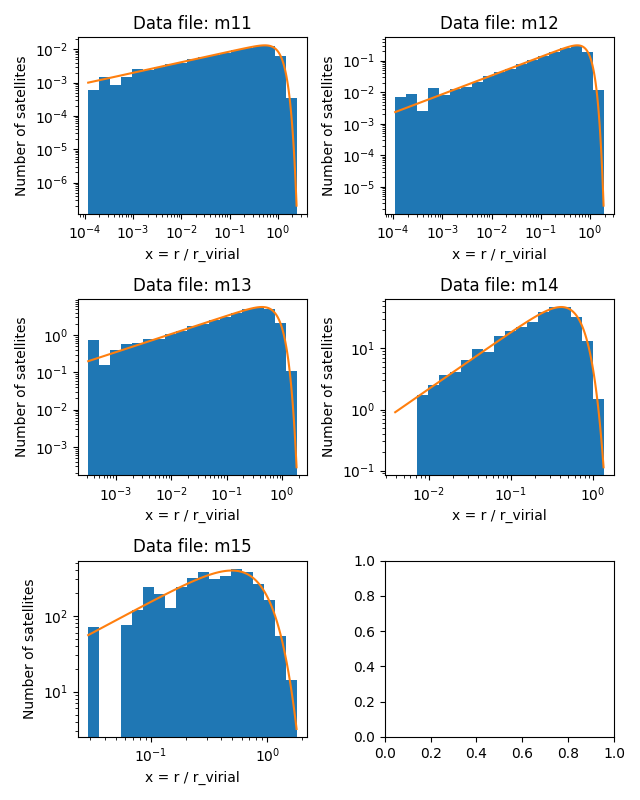
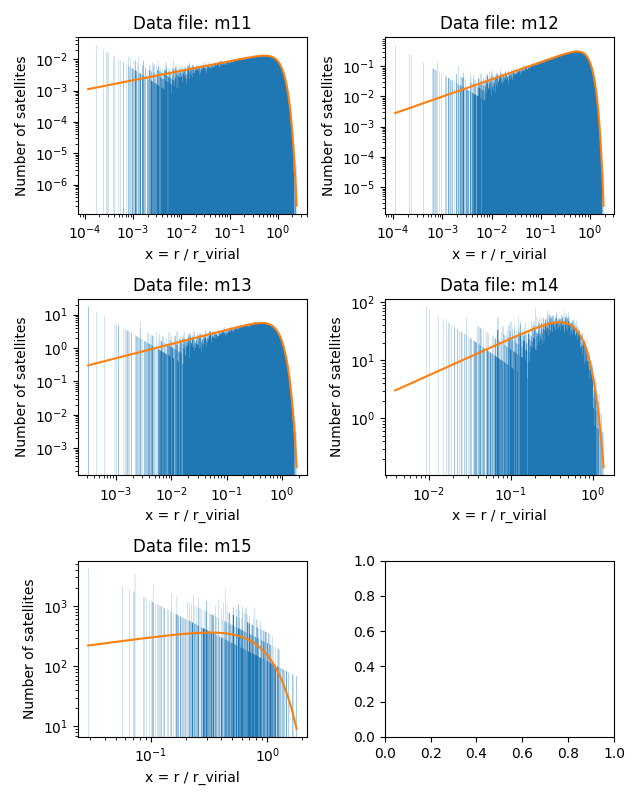
implemented all of the code now need to replace library function with own functions

diff --git a/Q1_SatelliteGalaxies.py b/Q1_SatelliteGalaxies.py
@@ -4,6 +4,7 @@ import matplotlib.pyplot as plt
 from scipy.optimize import minimize
 from scipy.integrate import quad
 
+NBINS = 1000
 
 def readfile(filename):
     """
@@ -373,6 +374,90 @@ def Q_score(G_score, dof):
     from scipy.special import gammainc
     return 1 - gammainc(dof/2, G_score/2)
 
+def rng(N: int) -> np.ndarray:
+    """
+    Random number generator 
+
+    Parameters
+    ----------
+    N: int
+        Number of random numbers
+
+    Returns
+    -------
+    np.ndarray
+        Array containing N random numbers
+        if N=1 returns float instead
+    """
+    global seed
+    seed = np.uint64(seed)
+
+    # Parameters for rng
+    a = np.uint64(4294957665)
+    a_1 = np.uint64(21)
+    a_2 = np.uint64(35)
+    a_3 = np.uint64(4)
+
+    rnds = np.zeros(N)
+    for i in range(N):
+
+        # MWC 32-bit
+        seed &= np.uint64(2**32 - 1)
+        seed = a*(seed & np.uint64(2**32 - 1)) + (seed >> np.uint64(32))
+        seed &= np.uint64(2**32 - 1)
+
+        # 64-bit XOR-shift
+        seed ^= (seed>>a_1)
+        seed ^= (seed<<a_2)
+        seed ^= (seed>>a_3)
+
+        # Calculating the float
+        u = seed / np.float64(2**64)
+        rnds[i] = u
+    
+    if N==1:
+        return rnds[0]
+    return rnds
+
+
+def sampler(
+    dist: callable,
+    min: float,
+    max: float,
+    Nsamples: int,
+    args: tuple = (),
+) -> np.ndarray:
+    """
+    Sample a distribution using rejection sampling
+
+    Parameters
+    dist : callable
+        Distribution to sample
+    min :
+        Minimum value for sampling
+    max : float
+        Maximum value for sampling
+    Nsamples : int
+        Number of samples
+    args : tuple, optional
+        Arguments of the distribution to sample, passed as args to dist
+
+    Returns
+    -------
+    sample: ndarray
+        Values sampled from dist, shape (Nsamples,)
+    """
+    xx = np.linspace(min, max, 10000)
+    pdf = dist(xx, *args)
+    cdf = np.array([np.sum(pdf[:i+1]) for i in range(len(pdf))])
+    cdf /= np.max(cdf)
+    # plt.figure(figsize=(6.4, 4.8))
+    # plt.plot(xx, cdf)
+    # plt.xscale('log')
+    # plt.savefig("Plots/test2.png")
+    random_y_values = rng(Nsamples)
+    random_x_values = np.interp(random_y_values, cdf, xx)
+    return random_x_values
 
 # =====================================================
 # ======== Main functions for each subquestion ========
@@ -380,6 +465,7 @@ def Q_score(G_score, dof):
 
 
 def do_question_1a():
+    print('1a')
     return
     # ======== Question 1a: Maximization of N(x) ========
     a = 2.4
@@ -390,6 +476,7 @@ def do_question_1a():
     x_lower, x_upper = 10**-4, 5
 
     x_max, Nx_max = my_minimizer(lambda x: -4*np.pi*x**2*n(x, A=A_1a, Nsat=Nsat, a=a, b=b, c=c), (x_lower, x_upper))
+    Nx_max *= -1
 
     # Write the results to text files for later use in the PDF
     with open("Calculations/satellite_max_x.txt", "w") as f:
@@ -399,6 +486,7 @@ def do_question_1a():
 
 
 def do_question_1b():
+    print('1b')
     # return
     # ======== Question 1b: Fitting N(x) with chi-squared ========
     datafiles = ["m11", "m12", "m13", "m14", "m15"]
@@ -419,7 +507,7 @@ def do_question_1b():
             min(radius),
             max(radius),
         )
-        bins = np.logspace(np.log10(x_lower), np.log10(x_upper), 20)  # choose appropriate bins
+        bins = np.logspace(np.log10(x_lower), np.log10(x_upper), NBINS)  # choose appropriate bins
         hist = np.histogram(radius, bins=bins)[0]
         N_i = hist / nhalo
 
@@ -435,12 +523,10 @@ def do_question_1b():
 
         # Plot the data and the best-fit model for each data file in a subplot.
         axs[datafiles.index(datafile)].stairs(
-        N_i/(bins[1:] - bins[:-1]), edges=bins, fill=True, label="Satellite galaxies"
+        N_i/(bins[1:] - bins[:-1]), edges=bins, fill=True
         )
 
-        x_plot = np.linspace(
-            x_lower, x_upper, 100
-        )  # create x_array for plotting the model
+        x_plot = np.linspace(x_lower, x_upper, 100)
         axs[datafiles.index(datafile)].plot(
             x_plot, 4*np.pi*x_plot**2*n(x_plot, A, nsat, *best_params)
         )  # plot the best-fit model using the best-fit parameters found from chi-squared minimization
@@ -470,6 +556,7 @@ def do_question_1b():
 
 
 def do_question_1c():
+    print('1c')
     # return 
     # ======== Question 1c: Fitting N(x) with Poisson ln-likelihood ========
     datafiles = ["m11", "m12", "m13", "m14", "m15"]
@@ -489,7 +576,7 @@ def do_question_1c():
             min(radius),
             max(radius),
         )
-        bins = np.logspace(np.log10(x_lower), np.log10(x_upper), 20)  # choose appropriate bins
+        bins = np.logspace(np.log10(x_lower), np.log10(x_upper), NBINS)  # choose appropriate bins
         hist = np.histogram(radius, bins=bins)[0]
         N_i = hist / nhalo
         best_params, min_poisson_llh = minimize_poisson_ln_likelihood(lambda a, b, c: model(a, b, c, bin_edges=bins, Nsat=nsat, x_lower=x_lower, x_upper=x_upper),
@@ -507,9 +594,7 @@ def do_question_1c():
         axs[datafiles.index(datafile)].stairs(
         N_i/(bins[1:] - bins[:-1]), edges=bins, fill=True, label="Satellite galaxies"
         )
-        x_plot = np.linspace(
-            x_lower, x_upper, 100
-        )  # create x_array for plotting the model
+        x_plot = np.linspace(x_lower, x_upper, 100)
         axs[datafiles.index(datafile)].plot(
             x_plot, 4*np.pi*x_plot**2*n(x_plot, A, nsat, *best_params)
         )  # plot the best-fit model using the best-fit parameters found from Poisson negative log-likelihood minimization
@@ -539,8 +624,9 @@ def do_question_1c():
 
 
 def do_question_1d():
-    global best_params_chi2  # replace by the correct array
-    global best_params_poisson # replace by the correct array
+    print('1d')
+    global best_params_chi2
+    global best_params_poisson
     # ======== Question 1d: Statistical tests ========
     datafiles = ["m11", "m12", "m13", "m14", "m15"]
 
@@ -557,7 +643,7 @@ def do_question_1d():
             min(radius),
             max(radius),
         )
-        bins = np.logspace(np.log10(x_lower), np.log10(x_upper), 20)  # choose appropriate bins
+        bins = np.logspace(np.log10(x_lower), np.log10(x_upper), NBINS)  # choose appropriate bins
         hist = np.histogram(radius, bins=bins)[0]
 
         # Use best-fit parameters from previous steps
@@ -595,6 +681,13 @@ def do_question_1d():
 
 
 def do_question_1e():
+    print('1e')
+    # Set seed
+    global seed
+    seed = 31415926535
+
+    global best_params_chi2
+    global best_params_poisson
     # ======== Question 1e: Monte Carlo simulations ========
     # pick one of the data files to perform the Monte Carlo simulations on, e.g. m12
     datafiles = ["m11", "m12", "m13", "m14", "m15"]
@@ -603,47 +696,84 @@ def do_question_1e():
     )
 
     radius, nhalo = readfile(f"Data/satgals_{datafiles[index]}.txt")
+    nsat = len(radius) / nhalo
+    x_lower, x_upper = (
+        min(radius),
+        max(radius),
+    )
+    bins = np.logspace(np.log10(x_lower), np.log10(x_upper), NBINS)  # choose appropriate bins
+    hist = np.histogram(radius, bins=bins)[0]
+    N_i = hist / nhalo
 
     # Use best-fit parameters from previous steps for the original data file
-    best_params_chi2 = (0.0, 0.0, 0.0)  # replace by the correct array
-    best_params_poisson = (0.0, 0.0, 0.0)  # replace by the correct array
+    best_param_chi2 = best_params_chi2[index]  # replace by the correct array
+    best_param_poisson = best_params_poisson[index]  # replace by the correct array
+
+    p_of_x_chi2 = (
+        lambda x: 4*np.pi*x**2*n(x, 1, 1, *best_param_chi2))
+    p_of_x_poisson = (
+        lambda x: 4*np.pi*x**2*n(x, 1, 1, *best_param_poisson))
+
+    # Normalize probability density for rejection sampling
+    _, Nx_max_chi2 = my_minimizer(lambda x: -1 * p_of_x_chi2(x), (x_lower, x_upper))
+    _, Nx_max_poisson = my_minimizer(lambda x: -1 * p_of_x_poisson(x), (x_lower, x_upper))
+    p_of_x_chi2_norm = lambda x: -1 * p_of_x_chi2(x) / Nx_max_chi2
+    p_of_x_poisson_norm = lambda x: -1 * p_of_x_poisson(x) / Nx_max_poisson
 
     pseudo_chi2_params = []
     pseudo_poisson_params = []
 
     num_pseudo_experiments = 10  # replace by number with reasonable runtime
     for i in range(num_pseudo_experiments):
+        random_samples_chi2 = sampler(p_of_x_chi2_norm, min=x_lower, max=x_upper, Nsamples=nhalo, args=())
+        random_samples_poisson = sampler(p_of_x_poisson_norm, min=x_lower, max=x_upper, Nsamples=nhalo, args=())
+        N_i_chi2 = np.histogram(random_samples_chi2, bins=bins)[0] / nhalo
+        # print(N_i_chi2)
+        # plt.figure(figsize=(6.4, 4.8))
+        # plt.stairs(N_i/(bins[1:] - bins[:-1]), edges=bins, fill=True, alpha=0.5)
+        # plt.stairs(N_i_chi2/(bins[1:] - bins[:-1]), edges=bins, fill=True, alpha=.5)
+        # plt.xscale('log')
+        # plt.yscale('log')
+        # plt.savefig("Plots/test.png")
+        N_i_poisson = np.histogram(random_samples_poisson, bins=bins)[0] / nhalo
 
-        # TODO: generate pseudo-data by sampling from original best-fit chi2 and poisson models
-        # Then, for each pseudo-dataset, perform the chi2 and poisson fits to find the best-fit parameters.
+        mc_param_chi2, _ = minimize_chi2(lambda a, b, c: model(a, b, c, bin_edges=bins, Nsat=nsat, x_lower=x_lower, x_upper=x_upper),
+                      N_i_chi2,
+                      [*best_param_chi2])
+        mc_param_poisson, _ = minimize_poisson_ln_likelihood(lambda a, b, c: model(a, b, c, bin_edges=bins, Nsat=nsat, x_lower=x_lower, x_upper=x_upper),
+                      N_i_poisson,
+                      [*best_param_poisson])
 
         # Append the best-fit parameters for each pseudo-dataset to their respective arrays.
         pseudo_chi2_params.append(
-            (0.0, 0.0, 0.0)
+            mc_param_chi2
         )  # replace by the correct best-fit parameters (a,b,c) found from chi-squared minimization for the pseudo-dataset
         pseudo_poisson_params.append(
-            (0.0, 0.0, 0.0)
+            mc_param_poisson
         )  # replace by the correct best-fit parameters (a,b,c) found from Poisson negative log-likelihood minimization for the pseudo-dataset
 
     # plot the pseudo best-fit profiles, plot the original best-fit profile in another color and plot the mean in one more color
 
     # chi2 plot
-    x_plot = np.linspace(1e-4, 5, 100)  # create x_array for plotting the model
+    x_plot = np.linspace(x_lower, x_upper, 100)  # create x_array for plotting the model
     plt.figure(figsize=(6.4, 4.8))
     for params in pseudo_chi2_params:
+        A = get_normalization_constant(*params, nsat, x_lower, x_upper)
         plt.plot(
-            x_plot, np.ones_like(x_plot)
+            x_plot, 4*np.pi*x_plot**2*n(x_plot, A, nsat, *params)
         )  # plot the best-fit model for each pseudo-dataset using the best-fit parameters found from chi-squared minimization
 
+    A = get_normalization_constant(*best_param_chi2, nsat, x_lower, x_upper)
     plt.plot(
-        x_plot, np.ones_like(x_plot)
+        x_plot, 4*np.pi*x_plot**2*n(x_plot, A, nsat, *best_param_chi2)
     )  # plot the original best-fit model using the best-fit parameters found from chi-squared minimization on the real data
 
     mean_params_chi2 = np.mean(
         pseudo_chi2_params, axis=0
     )  # calculate the mean of the best-fit parameters from the pseudo-datasets
+    A = get_normalization_constant(*mean_params_chi2, nsat, x_lower, x_upper)
     plt.plot(
-        x_plot, np.ones_like(x_plot)
+        x_plot, 4*np.pi*x_plot**2*n(x_plot, A, nsat, *mean_params_chi2)
     )  # plot the mean of the best-fit models from the pseudo-datasets
 
     plt.title(f"Monte Carlo simulations - chi2 fit - Data file: {datafiles[index]}")
@@ -651,25 +781,29 @@ def do_question_1e():
     plt.ylabel("Number of satellites")
     plt.xscale("log")
     plt.yscale("log")
+    plt.ylim(1e-3, None)
     plt.legend(["Pseudo-dataset fits", "Original fit", "Mean of pseudo fits"])
     plt.savefig("Plots/satellite_monte_carlo_chi2.png")
 
     # poisson plot
-    x_plot = np.linspace(1e-4, 5, 100)  # create x_array for plotting the model
+    x_plot = np.linspace(x_lower, x_upper, 100)  # create x_array for plotting the model
     plt.figure(figsize=(6.4, 4.8))
     for params in pseudo_poisson_params:
+        A = get_normalization_constant(*params, nsat, x_lower, x_upper)
         plt.plot(
-            x_plot, np.ones_like(x_plot)
-        )  # plot the best-fit model for each pseudo-dataset using the best-fit parameters found from Poisson negative log-likelihood minimization
+            x_plot, 4*np.pi*x_plot**2*n(x_plot, A, nsat, *params)
+        )   # plot the best-fit model for each pseudo-dataset using the best-fit parameters found from Poisson negative log-likelihood minimization
+    A = get_normalization_constant(*best_param_poisson, nsat, x_lower, x_upper)
     plt.plot(
-        x_plot, np.ones_like(x_plot)
+        x_plot, 4*np.pi*x_plot**2*n(x_plot, A, nsat, *best_param_chi2)
     )  # plot the original best-fit model using the best-fit parameters found from Poisson negative log-likelihood minimization on the real data
 
     mean_params_poisson = np.mean(
         pseudo_poisson_params, axis=0
     )  # calculate the mean of the best-fit parameters from the pseudo-datasets
+    A = get_normalization_constant(*mean_params_poisson, nsat, x_lower, x_upper)
     plt.plot(
-        x_plot, np.ones_like(x_plot)
+        x_plot, 4*np.pi*x_plot**2*n(x_plot, A, nsat, *mean_params_poisson)
     )  # plot the mean of the best-fit models from the pseudo-datasets
 
     plt.title(f"Monte Carlo simulations - Poisson fit - Data file: {datafiles[index]}")
@@ -677,6 +811,7 @@ def do_question_1e():
     plt.ylabel("Number of satellites")
     plt.xscale("log")
     plt.yscale("log")
+    plt.ylim(1e-3, None)
     plt.legend(["Pseudo-dataset fits", "Original fit", "Mean of pseudo fits"])
     plt.savefig("Plots/satellite_monte_carlo_poisson.png")
 

diff --git a/Calculations/statistical_test_table_rows.tex b/Calculations/statistical_test_table_rows.tex
@@ -1,10 +1,10 @@
-$\chi^2$ & m11 & 8.22976 & 0.94173 \\
-$\chi^2$ & m12 & 11.84187 & 0.75479 \\
-$\chi^2$ & m13 & 11.38833 & 0.78491 \\
-$\chi^2$ & m14 & 14.99112 & 0.52529 \\
-$\chi^2$ & m15 & 16.90794 & 0.39158 \\
-Poisson & m11 & 12.97959 & 0.67425 \\
-Poisson & m12 & 11.82519 & 0.75592 \\
-Poisson & m13 & 11.34784 & 0.78752 \\
-Poisson & m14 & 14.93502 & 0.52940 \\
-Poisson & m15 & 16.48768 & 0.41947
+$\chi^2$ & m11 & 913.60395 & 0.97026 \\
+$\chi^2$ & m12 & 943.57194 & 0.88119 \\
+$\chi^2$ & m13 & 909.27878 & 0.97656 \\
+$\chi^2$ & m14 & 864.55487 & 0.99893 \\
+$\chi^2$ & m15 & 800.99896 & 1.00000 \\
+Poisson & m11 & 895.01344 & 0.99007 \\
+Poisson & m12 & 887.93785 & 0.99378 \\
+Poisson & m13 & 829.98766 & 0.99996 \\
+Poisson & m14 & 783.24450 & 1.00000 \\
+Poisson & m15 & 744.55752 & 1.00000

diff --git a/Calculations/table_fitparams_chi2.tex b/Calculations/table_fitparams_chi2.tex
@@ -1,5 +1,5 @@
-m11 & 0.01368 & 0.00000 & 1.31800 & 1.11238 & 3.12263 \\
-m12 & 0.25089 & 0.00001 & 1.59120 & 0.92064 & 3.49647 \\
-m13 & 4.37351 & 0.00062 & 1.48721 & 0.80362 & 2.88928 \\
-m14 & 29.13453 & 0.07155 & 1.93056 & 0.61237 & 2.53838 \\
-m15 & 329.50000 & 6.88823 & 1.82086 & 0.77412 & 2.18993
+m11 & 0.01368 & 0.00005 & 1.30347 & 1.11882 & 3.13705 \\
+m12 & 0.25089 & 0.00064 & 1.56857 & 0.92676 & 3.52822 \\
+m13 & 4.37351 & 0.04609 & 1.42527 & 0.82333 & 2.96953 \\
+m14 & 29.13453 & 3.35793 & 1.63366 & 0.67591 & 2.74267 \\
+m15 & 329.50000 & 368.26391 & 1.25466 & 0.88868 & 2.07360

diff --git a/Calculations/table_fitparams_poisson.tex b/Calculations/table_fitparams_poisson.tex
@@ -1,5 +1,5 @@
-m11 & 0.09604 & 1.32494 & 1.10530 & 3.07398 \\
-m12 & 0.99603 & 1.59172 & 0.92043 & 3.49486 \\
-m13 & 5.74677 & 1.48888 & 0.80290 & 2.88505 \\
-m14 & -10.28738 & 1.94064 & 0.60995 & 2.52666 \\
-m15 & -787.10003 & 1.91890 & 0.73740 & 2.09418
+m11 & 0.14971 & 1.31614 & 1.11403 & 3.12841 \\
+m12 & 1.97800 & 1.59479 & 0.91795 & 3.46767 \\
+m13 & 22.93949 & 1.49062 & 0.79997 & 2.85940 \\
+m14 & 104.64830 & 1.96109 & 0.59995 & 2.45798 \\
+m15 & 516.34853 & 1.95533 & 0.71199 & 2.01701
